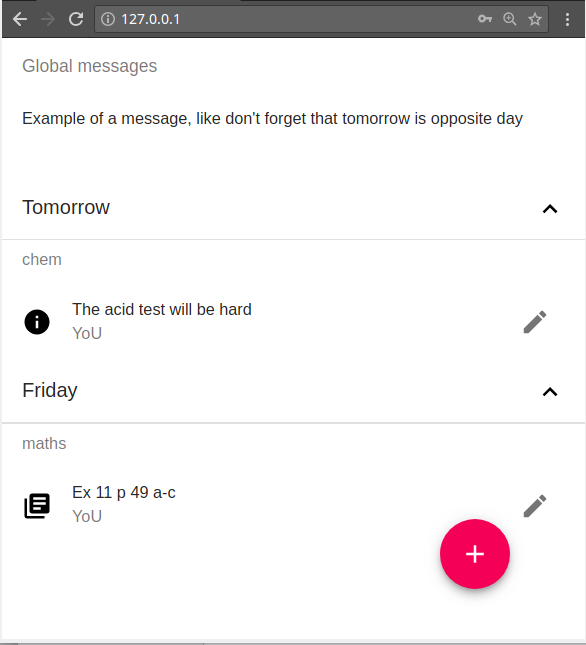
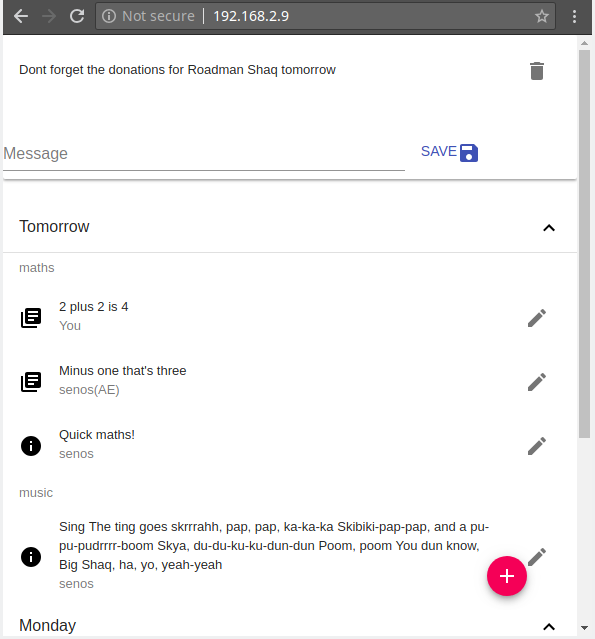
UI Look update, example update

diff --git a/homewk_web/src/cps/MsgList.js b/homewk_web/src/cps/MsgList.js
@@ -50,9 +50,7 @@ class MsgList extends React.Component{
     return (
       <Paper elevation={2}>
         <List
-          dense
-          subheader=
-            {<ListSubheader component="div">Global messages</ListSubheader>}>
+          dense>
           {rd}
         </List>
         {U.user().admin?

diff --git a/homewk_web/src/App.js b/homewk_web/src/App.js
@@ -21,7 +21,9 @@ import SA from './actions/sa'
 const fab_style = {
    position: 'fixed',
    bottom: 40,
-   right: 60,
+   right: 50,
+   width:40,
+   height:40
 }
 
 class App extends Component {
